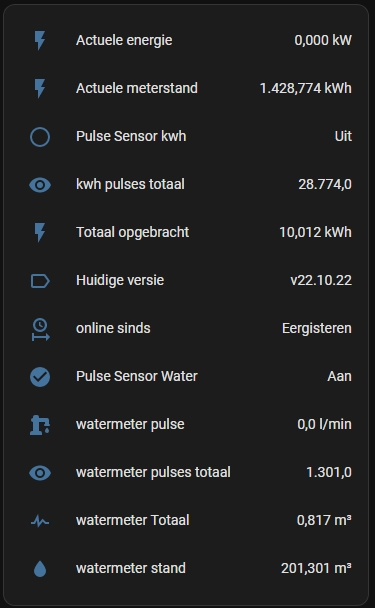
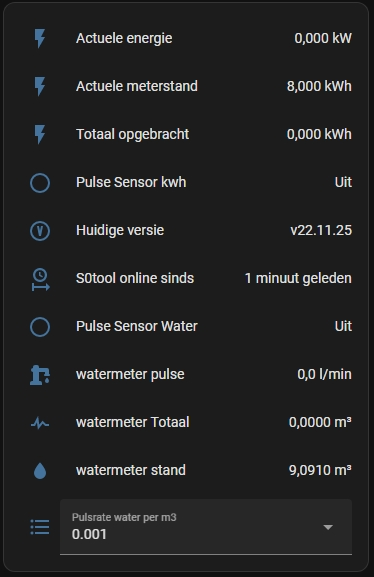
v22.11.25

diff --git a/README-nl.md b/README-nl.md
@@ -47,8 +47,9 @@ Voor meer informatie en aansluitschema's etc kijk dan even op de [website](https
 | 04/08/2022 | Tekst vertaald op Github naar [English](./README.md) en [Dutch](./README-nl.md).|
 | 10/09/2022 | Flash pagina geüpdatet nu keuzemogelijkheden --> standaard / watermeter / 1000imp puls / 2000imp puls .|
 | 29/10/2022 | Fix om de watermeter sensor toe te voegen aan het energy dashboard.|
-| 12/11/2022 | Fix for watermeter total and watermeter meter counter numbers.|
-| 14/11/2022 | Fix for watermeter werkt nu met 2 pulses per liter kies 0.0005  en 1 puls per liter kies 0.001 default is 0.001.|
+| 12/11/2022 | Fix voor de watermeter total and watermeter meter counter numbers.|
+| 14/11/2022 | Fix voor de watermeter werkt nu met 2 pulses per liter kies 0.0005  en 1 puls per liter kies 0.001 default is 0.001.|
+| 18/11/2022 | Fix voor meter teller van de kWh en water, en wat opruimen van de code.|
 
 <br>
 Voordat je de S0tool gaat updaten zorg ervoor dat je minimaal het onderstaande draait.

diff --git a/README.md b/README.md
@@ -49,6 +49,8 @@ Will it work with my meter check it out here. https://github.com/huizebruin/s0to
 | 29/10/2022 | Ad watermeter sensor to energy dashboard.|
 | 12/11/2022 | Fix for watermeter total and watermeter meter counter numbers.|
 | 14/11/2022 | Fix for watermeter now works with 2 pulses a liter choose 0.0005  and 1 puls a liter choose 0.001 default is 0.001.|
+| 18/11/2022 | Fix for meter counter for the kWh and water, and some cleanup of the code.|
+
 <br>
 Before update of the S0tool u should use, and above <br>
 

diff --git a/static/index.md b/static/index.md
@@ -43,6 +43,7 @@ Will it work with my meter check it out here. https://github.com/huizebruin/s0to
 | 29/10/2022 | Ad watermeter sensor to energy dashboard.|
 | 12/11/2022 | Fix for watermeter total and watermeter meter counter numbers.|
 | 14/11/2022 | Fix for watermeter now works with 2 pulses a liter choose 0.0005  and 1 puls a liter choose 0.001 default is 0.001.|
+| 18/11/2022 | Fix for meter counter for the kWh and water, and some cleanup of the code.|
 
 <br>
 
